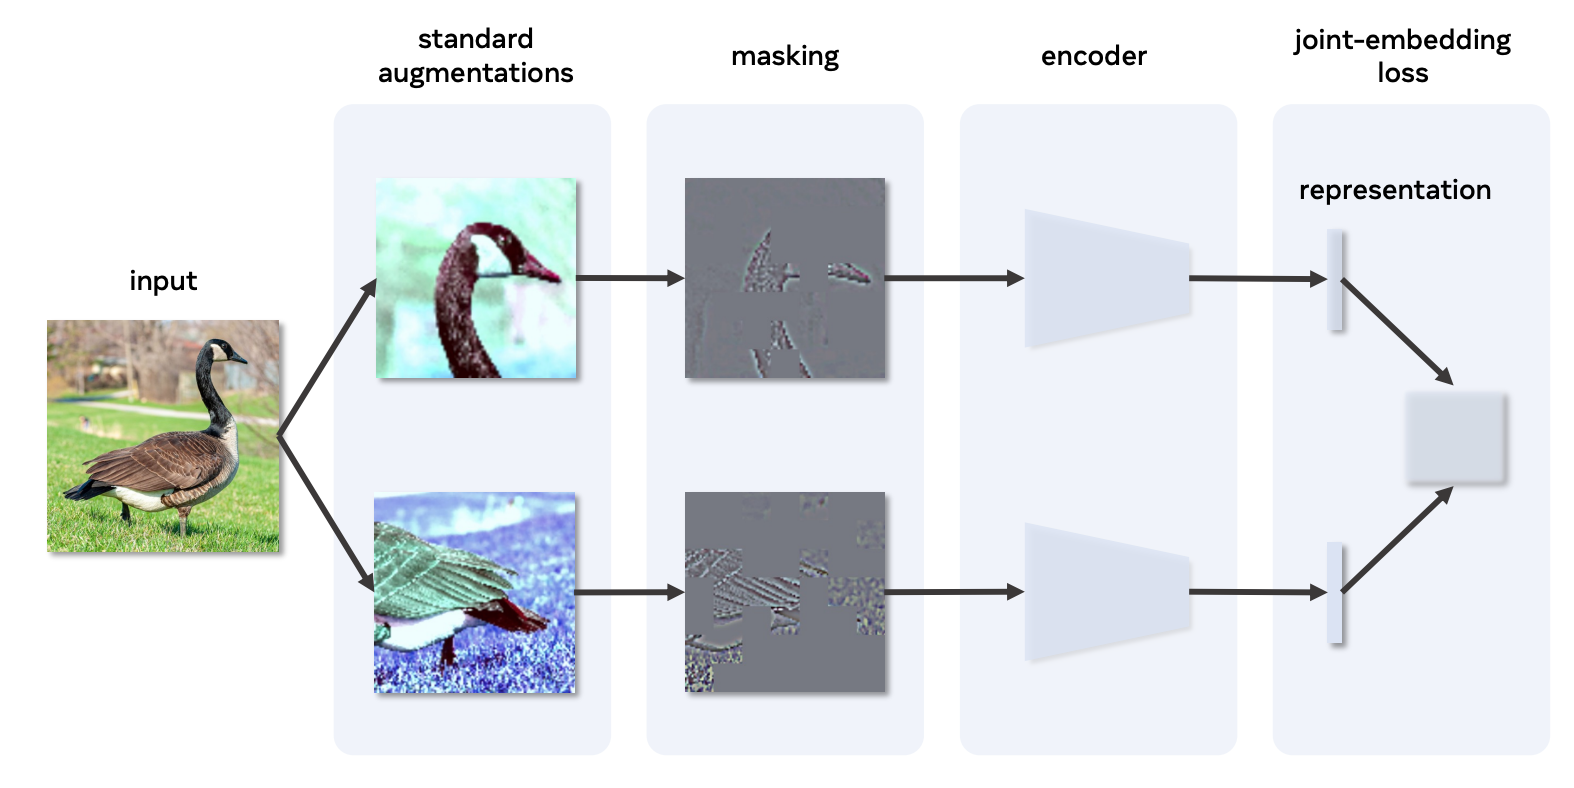
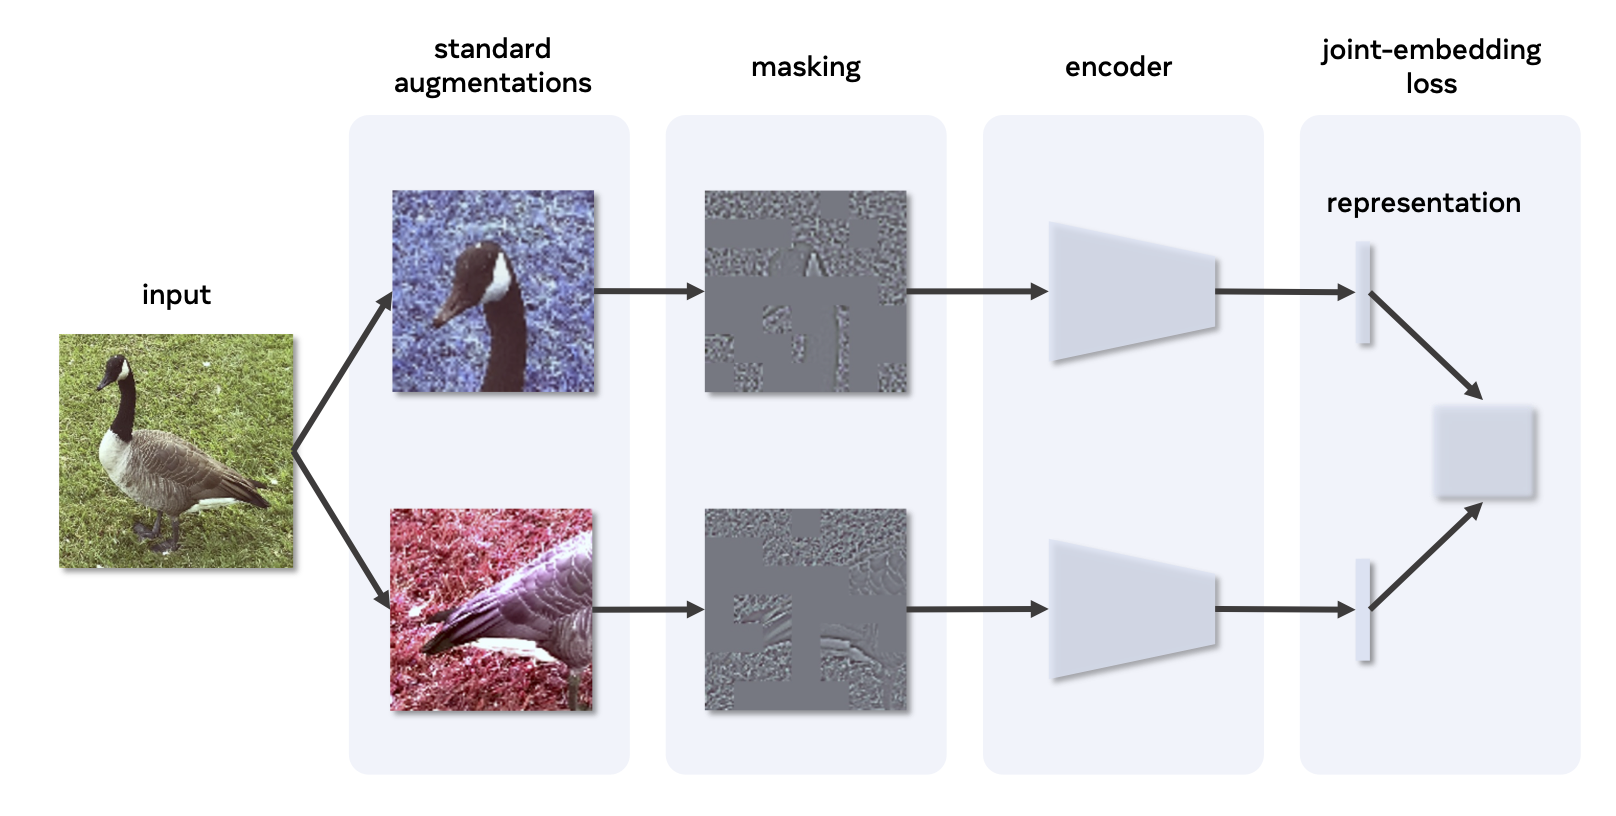
update-6-16

diff --git a/public_html/publications.html b/public_html/publications.html
@@ -150,6 +150,10 @@
                 
             <div class="col-md-9">
                     <ol reversed><small>
+                        <li><a href="https://arxiv.org/abs/2206.07700">Masked Siamese ConvNets
+                            <p style="color:grey"><strong><span style="color: black;">Li Jing*</span></strong>, Jiachen Zhu*, Yann LeCun<br> <i> arXiv: 2022.07700</i>
+                            </p></a>
+                        </li>
                         <li><a href="https://arxiv.org/abs/2206.01206">Positive Unlabeled Contrastive Learning
                             <p style="color:grey">Anish Acharya, Sujay Sanghavi, <strong><span style="color: black;">Li Jing</span></strong>, Bhargav Bhushanam, Dhruv Choudhary, Michael Rabbat, Inderjit Dhillon <br> <i> arXiv: 2022.05255</i>
                             </p></a>

diff --git a/public_html/index.html b/public_html/index.html
@@ -139,6 +139,10 @@
             <div class="col-md-9">
                 <p><strong>Masked Siamese ConvNets</strong><br>
                 <small><span style="color:grey"><strong><u>Li Jing</u></strong>*, Jiachen Zhu*, Yann LeCun</span></small><br>
+                <small>
+                    <a style="font-family: monospace" href="https://arxiv.org/pdf/2206.07700.pdf">[PDF]</a>
+                    <a style="font-family: monospace" href="">[Code]</a>
+                </small>
                 </p>
             </div>
             <div class="col-md-12" style="height:60px;">
